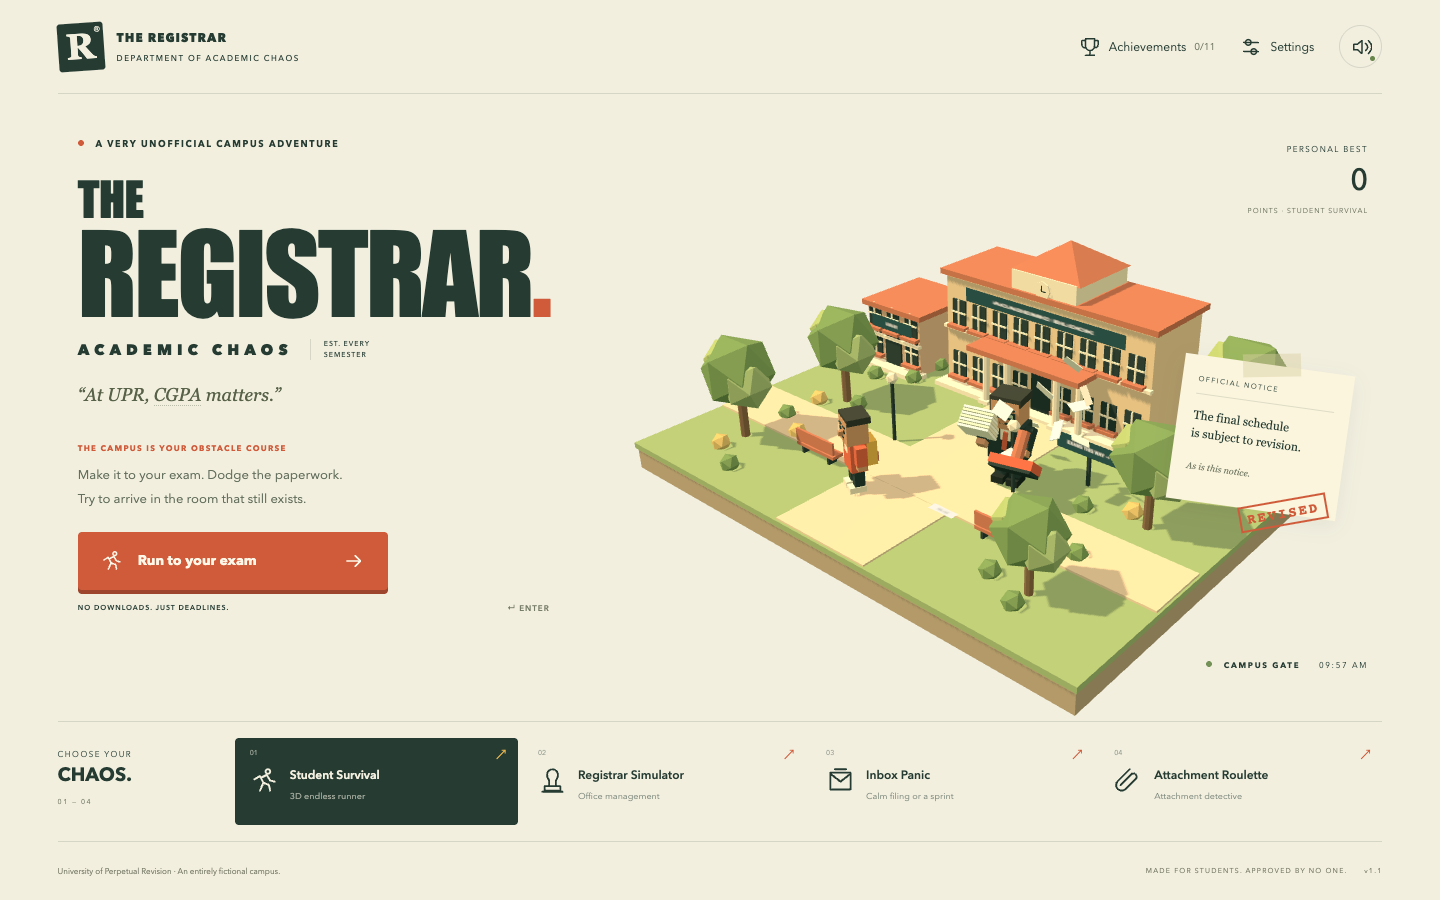
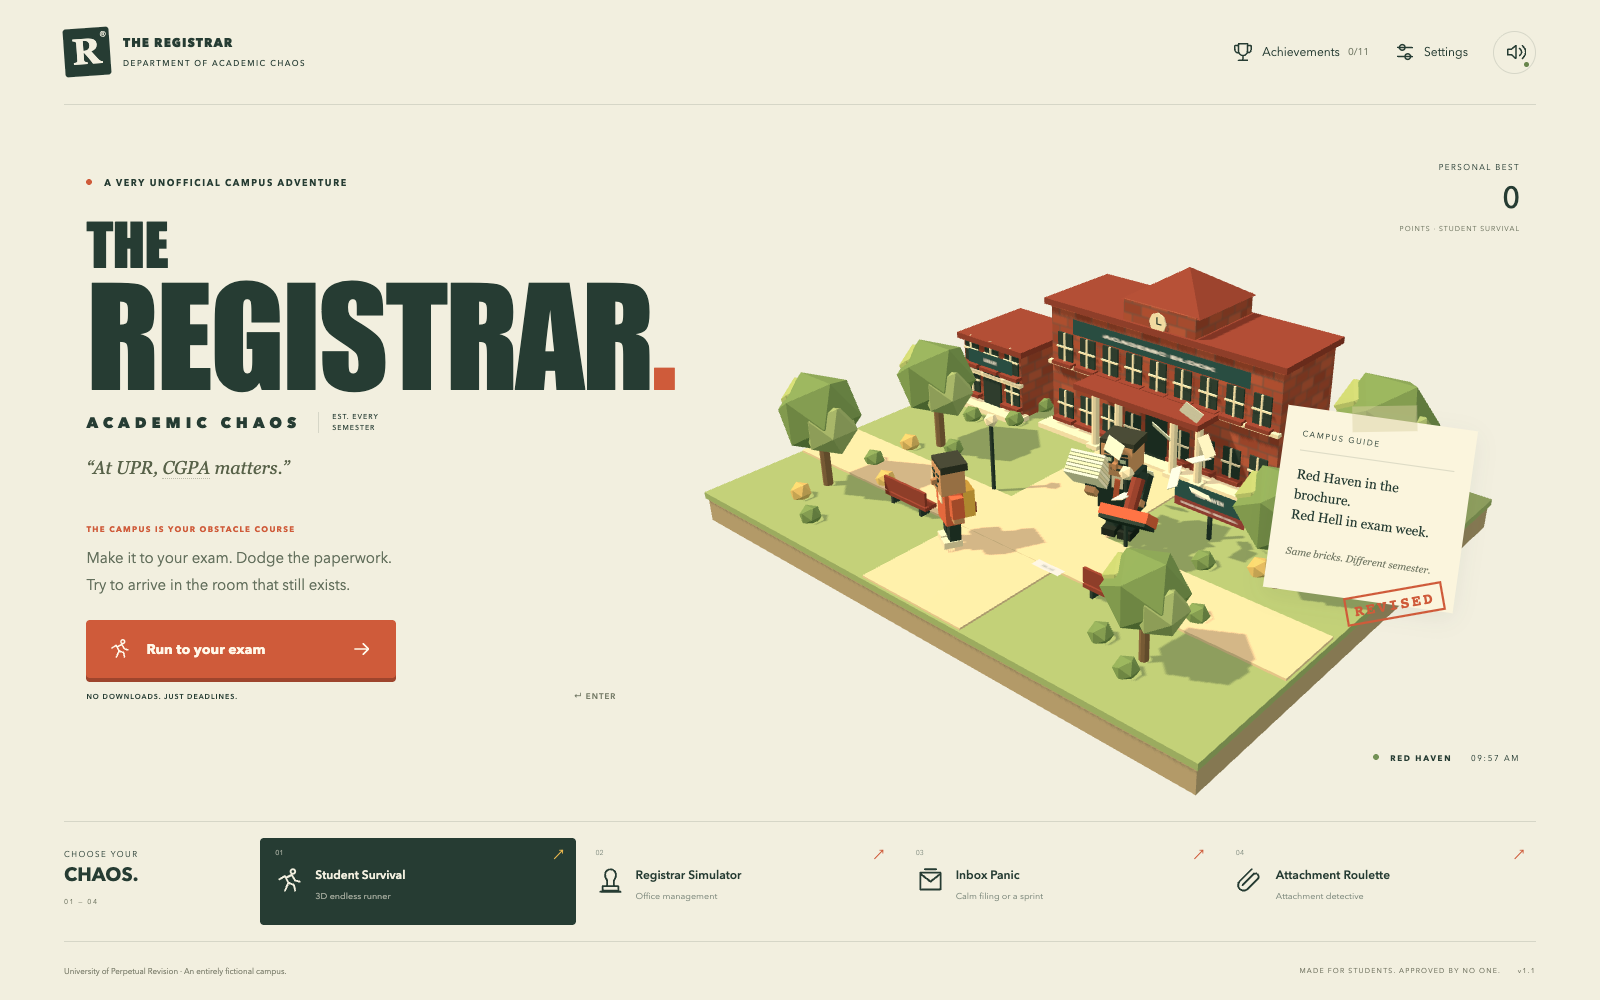
Add campus dollars and Red Haven red-brick setting

diff --git a/src/Game.ts b/src/Game.ts
@@ -207,7 +207,7 @@ export class Game {
     this.world.setMode("menu");
     this.world.resetItems();
     const mode = modes[this.selected];
-    this.root.innerHTML = `${this.header()}<main class="menu-content"><div class="hero-copy"><p class="eyebrow"><span class="live-dot"></span> A VERY UNOFFICIAL CAMPUS ADVENTURE</p><h1><span>THE</span>REGISTRAR<span class="title-period">.</span></h1><div class="subtitle">ACADEMIC CHAOS <span class="edition">EST. EVERY SEMESTER</span></div><p class="legend-quote">“At UPR, <button data-action="cgpa" aria-label="CGPA">CGPA</button> matters.”</p><div class="mode-description"><p class="eyebrow">${mode.kicker}</p><p>${mode.text.replace("\n", "<br>")}</p><button class="play-button" data-action="play">${icons[mode.icon]}<span>${this.selected === "simulator" && this.save.data.office.session ? "Continue your office day" : mode.button}</span>${icons.arrow}</button><div class="play-caption"><span>NO DOWNLOADS. JUST DEADLINES.</span><span class="key-hint">↵ ENTER</span></div></div></div><div class="scene-label"><span class="live-dot"></span> CAMPUS GATE <span>09:57 AM</span></div><div class="best-score"><span>PERSONAL BEST</span><strong>${format(this.save.data.highScore)}</strong><small>POINTS · STUDENT SURVIVAL</small></div><div class="paper-note"><span>OFFICIAL NOTICE</span><p>The final schedule<br>is subject to revision.</p><i>As is this notice.</i><b>REVISED</b></div></main><section class="mode-dock" aria-label="Choose game mode"><div class="dock-label">CHOOSE YOUR<br><strong>CHAOS.</strong><span>01 — 04</span></div>${(Object.keys(modes) as Mode[]).map((id, i) => `<button class="mode-tab ${this.selected === id ? "selected" : ""}" data-action="mode" data-mode="${id}" aria-pressed="${this.selected === id}"><span class="mode-number">0${i + 1}</span><span class="mode-icon">${icons[modes[id].icon]}</span><span class="mode-tab-copy"><strong>${modes[id].title}</strong><small>${modes[id].detail}</small></span><span class="mode-dot">↗</span></button>`).join("")}</section><footer class="menu-footer"><span>University of Perpetual Revision · An entirely fictional campus.</span><span>MADE FOR STUDENTS. APPROVED BY NO ONE. <b>v1.1</b></span></footer>`;
+    this.root.innerHTML = `${this.header()}<main class="menu-content"><div class="hero-copy"><p class="eyebrow"><span class="live-dot"></span> A VERY UNOFFICIAL CAMPUS ADVENTURE</p><h1><span>THE</span>REGISTRAR<span class="title-period">.</span></h1><div class="subtitle">ACADEMIC CHAOS <span class="edition">EST. EVERY SEMESTER</span></div><p class="legend-quote">“At UPR, <button data-action="cgpa" aria-label="CGPA">CGPA</button> matters.”</p><div class="mode-description"><p class="eyebrow">${mode.kicker}</p><p>${mode.text.replace("\n", "<br>")}</p><button class="play-button" data-action="play">${icons[mode.icon]}<span>${this.selected === "simulator" && this.save.data.office.session ? "Continue your office day" : mode.button}</span>${icons.arrow}</button><div class="play-caption"><span>NO DOWNLOADS. JUST DEADLINES.</span><span class="key-hint">↵ ENTER</span></div></div></div><div class="scene-label"><span class="live-dot"></span> RED HAVEN <span>09:57 AM</span></div><div class="best-score"><span>PERSONAL BEST</span><strong>${format(this.save.data.highScore)}</strong><small>POINTS · STUDENT SURVIVAL</small></div><div class="paper-note"><span>CAMPUS GUIDE</span><p>Red Haven in the brochure.<br>Red Hell in exam week.</p><i>Same bricks. Different semester.</i><b>REVISED</b></div></main><section class="mode-dock" aria-label="Choose game mode"><div class="dock-label">CHOOSE YOUR<br><strong>CHAOS.</strong><span>01 — 04</span></div>${(Object.keys(modes) as Mode[]).map((id, i) => `<button class="mode-tab ${this.selected === id ? "selected" : ""}" data-action="mode" data-mode="${id}" aria-pressed="${this.selected === id}"><span class="mode-number">0${i + 1}</span><span class="mode-icon">${icons[modes[id].icon]}</span><span class="mode-tab-copy"><strong>${modes[id].title}</strong><small>${modes[id].detail}</small></span><span class="mode-dot">↗</span></button>`).join("")}</section><footer class="menu-footer"><span>University of Perpetual Revision · An entirely fictional campus.</span><span>MADE FOR STUDENTS. APPROVED BY NO ONE. <b>v1.1</b></span></footer>`;
   }
   private click(event: MouseEvent) {
     const el = (event.target as HTMLElement).closest<HTMLElement>(
@@ -333,10 +333,10 @@ export class Game {
       this.world.resetItems();
       this.tutorialAt = 0;
       this.lastTokens = 0;
-      this.root.innerHTML = `${this.header(true)}<div class="runner-hud"><div class="exam-info"><span class="eyebrow">TODAY’S EXAM</span><strong>CSE 404 <span>10:00 AM</span></strong><div class="room-value">ROOM <b id="room">301</b><span id="version">FINAL v1</span></div></div><div class="run-score"><span class="eyebrow">DISTANCE <b id="distance">0 m</b></span><strong id="score">0</strong><div><button data-action="cgpa">CGPA <b id="tokens">0</b></button><span id="hearts" aria-label="3 admit cards">▰ ▰ ▰</span></div></div></div><div id="email" class="email-popup" role="status" aria-live="polite"></div><div id="boss-warning" class="boss-warning"></div><div class="runner-bottom"><span id="zone" class="zone-label">01 / CAMPUS GATE</span><div id="route" class="route-guide">FOLLOW THE PATH. THE PAPERWORK CAN WAIT.</div><button class="pause-fab" data-action="pause" aria-label="Pause game">Ⅱ</button></div><div class="touch-controls" aria-label="Movement controls"><button data-action="control" data-control="left" aria-label="Move left">←</button><button data-action="control" data-control="slide" aria-label="Slide">↓</button><button data-action="control" data-control="jump" aria-label="Jump">↑</button><button data-action="control" data-control="right" aria-label="Move right">→</button></div><span class="rotate-hint">A wider campus awaits in landscape ↻</span>`;
+      this.root.innerHTML = `${this.header(true)}<div class="runner-hud"><div class="exam-info"><span class="eyebrow">TODAY’S EXAM</span><strong>CSE 404 <span>10:00 AM</span></strong><div class="room-value">ROOM <b id="room">301</b><span id="version">FINAL v1</span></div></div><div class="run-score"><span class="eyebrow">DISTANCE <b id="distance">0 m</b></span><strong id="score">0</strong><div><span class="dollar-counter" title="Campus dollars · fictional game currency">$<b id="tokens">0</b> <small>CAMPUS CASH</small></span><span id="hearts" aria-label="3 admit cards">▰ ▰ ▰</span></div></div></div><div id="email" class="email-popup" role="status" aria-live="polite"></div><div id="boss-warning" class="boss-warning"></div><div class="runner-bottom"><span id="zone" class="zone-label">01 / CAMPUS GATE</span><div id="route" class="route-guide">FOLLOW THE PATH. THE PAPERWORK CAN WAIT.</div><button class="pause-fab" data-action="pause" aria-label="Pause game">Ⅱ</button></div><div class="touch-controls" aria-label="Movement controls"><button data-action="control" data-control="left" aria-label="Move left">←</button><button data-action="control" data-control="slide" aria-label="Slide">↓</button><button data-action="control" data-control="jump" aria-label="Jump">↑</button><button data-action="control" data-control="right" aria-label="Move right">→</button></div><span class="rotate-hint">A wider campus awaits in landscape ↻</span>`;
       if (!skipIntro)
         this.openDialog(
-          `<div class="dialog-icon">${icons.runner}</div><p class="eyebrow">BEFORE YOU RUN</p><h2>Your exam is this way.<br>For now.</h2><p>Collect gold CGPA tokens. Jump over low paperwork, slide under notice boards, and change lanes around cabinets.</p><div class="control-lesson"><span><kbd>←</kbd><kbd>→</kbd><b>Change lanes</b><small>A / D</small></span><span><kbd>↑</kbd><b>Jump</b><small>W</small></span><span><kbd>↓</kbd><b>Slide</b><small>S</small></span></div><p class="quiet">On a phone, swipe or use the arrow buttons.<br>Three admit cards. Clear room changes. Plenty of time.</p><button class="play-button" data-action="start-run">Let’s run ${icons.arrow}</button>`,
+          `<div class="dialog-icon">${icons.runner}</div><p class="eyebrow">BEFORE YOU RUN</p><h2>Your exam is this way.<br>For now.</h2><p>Collect $1 campus dollars (+25 points each). The tuition fund now has a cardio requirement. Jump over low paperwork, slide under notice boards, and change lanes around cabinets.</p><div class="control-lesson"><span><kbd>←</kbd><kbd>→</kbd><b>Change lanes</b><small>A / D</small></span><span><kbd>↑</kbd><b>Jump</b><small>W</small></span><span><kbd>↓</kbd><b>Slide</b><small>S</small></span></div><p class="quiet">On a phone, swipe or use the arrow buttons.<br>Three admit cards. Clear room changes. Plenty of time.</p><button class="play-button" data-action="start-run">Let’s run ${icons.arrow}</button>`,
           "tutorial",
         );
     } else if (mode === "simulator") {
@@ -593,7 +593,7 @@ export class Game {
             ? "← → CHANGE LANES     ↑ JUMP     ↓ SLIDE"
             : r.shield
               ? "◈ ADMIT CARD SHIELD ACTIVE"
-              : "COLLECT GOLD. KEEP YOUR ADMIT CARDS.",
+              : "COLLECT DOLLARS. OUTRUN THE FEES.",
       );
       document
         .getElementById("route")
@@ -645,6 +645,7 @@ export class Game {
       [
         ["Score", format(r.score)],
         ["Distance", `${format(r.distance)} m`],
+        ["Campus cash", `$${r.tokens}`],
         ["Revisions survived", String(r.survivedRevisions)],
       ],
       r.revisions > 0

diff --git a/src/world/World.ts b/src/world/World.ts
@@ -5,8 +5,8 @@ const C = {
   grass: 0x9bb377,
   grassDark: 0x78995b,
   cream: 0xf3e6c9,
-  wall: 0xe8cba1,
-  roof: 0xc57657,
+  wall: 0xa64c37,
+  roof: 0x8d3d30,
   green: 0x294d41,
   path: 0xe6cfaa,
   coral: 0xd86545,
@@ -45,6 +45,56 @@ function box(
   m.receiveShadow = true;
   parent.add(m);
   return m;
+}
+// One shared, procedural running-bond texture. UVs keep bricks the same size
+// on buildings of different dimensions, without adding individual brick meshes.
+let brickMaterial: THREE.MeshStandardMaterial | undefined;
+function brickBox(
+  parent: THREE.Object3D,
+  x: number,
+  y: number,
+  z: number,
+  w: number,
+  h: number,
+  d: number,
+) {
+  if (!brickMaterial) {
+    const canvas = document.createElement("canvas");
+    canvas.width = canvas.height = 256;
+    const ctx = canvas.getContext("2d")!;
+    ctx.fillStyle = "#795348";
+    ctx.fillRect(0, 0, 256, 256);
+    const shades = ["#a54c38", "#b45740", "#994431", "#ad5039", "#a14a36"];
+    for (let row = 0; row < 8; row++) {
+      for (let col = -1; col < 5; col++) {
+        ctx.fillStyle = shades[(row * 7 + col + 10) % shades.length];
+        ctx.fillRect(col * 64 + (row % 2) * 32 + 2, row * 32 + 2, 60, 28);
+      }
+    }
+    const map = new THREE.CanvasTexture(canvas);
+    map.colorSpace = THREE.SRGBColorSpace;
+    map.wrapS = map.wrapT = THREE.RepeatWrapping;
+    brickMaterial = new THREE.MeshStandardMaterial({ map, roughness: 1 });
+  }
+  const geometry = new THREE.BoxGeometry(w, h, d);
+  const uv = geometry.attributes.uv;
+  const faces = [
+    [d, h],
+    [d, h],
+    [w, d],
+    [w, d],
+    [w, h],
+    [w, h],
+  ];
+  faces.forEach(([width, height], face) => {
+    for (let i = face * 4; i < face * 4 + 4; i++)
+      uv.setXY(i, (uv.getX(i) * width) / 4, (uv.getY(i) * height) / 4);
+  });
+  const mesh = new THREE.Mesh(geometry, brickMaterial);
+  mesh.position.set(x, y, z);
+  mesh.castShadow = mesh.receiveShadow = true;
+  parent.add(mesh);
+  return mesh;
 }
 const cylGeo = new THREE.CylinderGeometry(1, 1, 1, 8);
 function cylinder(
@@ -103,7 +153,7 @@ function label(
     ctx.fillStyle = fg;
     ctx.textAlign = "center";
     ctx.textBaseline = "middle";
-    ctx.font = `bold ${text.length > 21 ? 24 : 35}px sans-serif`;
+    ctx.font = `bold ${text === "$1" ? 110 : text.length > 21 ? 24 : 35}px sans-serif`;
     ctx.fillText(text, 256, 67, 486);
     const texture = new THREE.CanvasTexture(canvas);
     texture.colorSpace = THREE.SRGBColorSpace;
@@ -132,12 +182,11 @@ function building(
   width: number,
   height: number,
   name: string,
-  color = C.wall,
 ) {
   const g = new THREE.Group();
   g.position.set(x, 0, z);
   parent.add(g);
-  box(g, 0, height / 2, 0, width, height, 4.2, color);
+  brickBox(g, 0, height / 2, 0, width, height, 4.2);
   box(g, 0, height + 0.12, 0, width + 0.5, 0.3, 4.7, C.roof);
   box(g, 0, 0.2, 2.45, width + 0.6, 0.4, 1, C.cream);
   box(g, 0, height * 0.55, 2.2, width + 0.15, 0.17, 0.3, C.cream);
@@ -358,7 +407,7 @@ export class World {
         0.13,
         0.035,
         0.22,
-        i % 3 ? C.cream : C.gold,
+        i % 3 ? C.cream : 0x67b77b,
       );
       mesh.castShadow = false;
       mesh.visible = false;
@@ -393,7 +442,7 @@ export class World {
     box(g, 0, 0.18, 1, 5.5, 0.12, 20, C.path);
     box(g, 0, 0.2, 4.2, 27, 0.12, 3.2, C.path);
     building(g, 0, -6.5, 13, 6.5, "ACADEMIC BLOCK");
-    box(g, 0, 7.2, -6.5, 4, 1.1, 4.4, C.cream);
+    brickBox(g, 0, 7.2, -6.5, 4, 1.1, 4.4);
     const ped = new THREE.Mesh(
       new THREE.ConeGeometry(3.1, 1.4, 4),
       material(C.roof),
@@ -410,7 +459,7 @@ export class World {
       box(g, x, 0.38, -3.5, 0.65, 0.2, 0.65, C.cream);
     }
     box(g, 0, 3.6, -3.55, 7.1, 0.28, 2, C.roof);
-    building(g, -10, -5.8, 4, 3.6, "LIBRARY", 0xdcb694);
+    building(g, -10, -5.8, 4, 3.6, "LIBRARY");
     for (const [x, z, s] of [
       [-9, 1, 1.2],
       [-10, 7, 1.2],
@@ -432,7 +481,8 @@ export class World {
       blob(g, x, 3.65, 2.6, 0.32, C.cream);
     }
     box(g, 6, 1, -0.2, 0.15, 2, 0.15, C.ink);
-    label(g, "EXAMS THIS WAY →", 6, 2.1, -0.08, 3.5, 0.8);
+    label(g, "RED HAVEN", 6, 2.1, -0.08, 3.5, 0.8);
+    label(g, "EXAM WEEK: RED HELL", 6, 1.5, -0.08, 3.5, 0.4, "#8d3d30");
     this.menuStudent.group.position.set(-1.8, 0.3, 7);
     this.menuStudent.group.rotation.y = -0.45;
     this.menuStudent.group.scale.setScalar(1.4);
@@ -499,7 +549,7 @@ export class World {
           5 + (i % 3),
           ["LIBRARY", "ACADEMIC BLOCK", "EXAM HALL", "REGISTRAR"][i % 4],
         );
-        building(row, 15, -7, 9, 5, "CAMPUS", i % 2 ? C.cream : C.wall);
+        building(row, 15, -7, 9, 5, "RED HAVEN");
       }
       if (i % 2 === 0) {
         cylinder(row, 5.9, 1.7, 2, 0.07, 3.4, C.ink);
@@ -511,7 +561,7 @@ export class World {
       this.runner.add(arch);
       this.arches.push(arch);
       for (const x of [-5.8, 5.8]) {
-        box(arch, x, 2.7, 0, 0.65, 5.4, 0.7, C.cream);
+        brickBox(arch, x, 2.7, 0, 0.65, 5.4, 0.7);
         box(arch, x, 0.25, 0, 1.1, 0.5, 1.1, C.wall);
       }
       box(arch, 0, 5.5, 0, 12.6, 0.65, 1.25, C.roof);
@@ -542,8 +592,8 @@ export class World {
     box(g, 0, -0.4, 0, 19, 0.8, 15, C.path);
     for (let i = -8; i < 9; i += 2)
       box(g, i, 0.012, 0, 0.018, 0.02, 15, 0xc4b594);
-    box(g, 0, 3.1, -7, 19, 6.2, 0.3, C.wall);
-    box(g, -9.3, 3.1, 0, 0.3, 6.2, 14, C.cream);
+    brickBox(g, 0, 3.1, -7, 19, 6.2, 0.3);
+    brickBox(g, -9.3, 3.1, 0, 0.3, 6.2, 14);
     box(g, -5.8, 3.6, -6.8, 4.5, 3.1, 0.15, C.teal);
     for (const x of [-7.3, -5.8, -4.3])
       box(g, x, 3.6, -6.65, 0.14, 3.1, 0.2, C.cream);
@@ -698,38 +748,50 @@ export class World {
         box(g, 0, 0.5, 0, 2.4, 1, 1.6, C.coral);
         cylinder(g, 0, 1.6, 0, 0.3, 1.4, C.roof);
         break;
+      case "token": {
+        const bill = new THREE.Group();
+        g.add(bill);
+        box(bill, 0, 0, 0, 1.3, 0.65, 0.06, 0x286947);
+        box(bill, 0, 0, 0, 1.16, 0.51, 0.075, 0xb9dab0);
+        label(bill, "$1", 0, 0, 0.045, 0.95, 0.43, "#b9dab0", "#245d3e");
+        label(
+          bill,
+          "$1",
+          0,
+          0,
+          -0.045,
+          0.95,
+          0.43,
+          "#b9dab0",
+          "#245d3e",
+        ).rotation.y = Math.PI;
+        break;
+      }
       default: {
         const color =
-          kind === "token"
-            ? C.gold
-            : kind === "shield"
-              ? C.teal
-              : kind === "coffee"
-                ? C.coral
-                : 0x9fa2c7;
+          kind === "shield" ? C.teal : kind === "coffee" ? C.coral : 0x9fa2c7;
         const orb = new THREE.Mesh(
-          new THREE.OctahedronGeometry(kind === "token" ? 0.4 : 0.62),
+          new THREE.OctahedronGeometry(0.62),
           material(color),
         );
         orb.position.y = 1.2;
         g.add(orb);
-        if (kind !== "token")
-          label(
-            g,
-            {
-              shield: "ADMIT",
-              coffee: "COFFEE",
-              screenshot: "LOCK",
-              groupchat: "CHAT",
-              compare: "COMPARE",
-              read: "FOCUS",
-            }[kind],
-            0,
-            2.05,
-            0.1,
-            1.8,
-            0.44,
-          );
+        label(
+          g,
+          {
+            shield: "ADMIT",
+            coffee: "COFFEE",
+            screenshot: "LOCK",
+            groupchat: "CHAT",
+            compare: "COMPARE",
+            read: "FOCUS",
+          }[kind],
+          0,
+          2.05,
+          0.1,
+          1.8,
+          0.44,
+        );
       }
     }
     this.itemMeshes.push(g);

diff --git a/src/style.css b/src/style.css
@@ -2447,3 +2447,16 @@ dialog .play-button {
     display: none;
   }
 }
+
+.dollar-counter {
+  color: #285c3e;
+  display: inline-flex;
+  align-items: baseline;
+  gap: 3px;
+  font-weight: 800;
+}
+.dollar-counter small {
+  font-size: 9px;
+  letter-spacing: 0.06em;
+  margin-left: 5px;
+}

diff --git a/README.md b/README.md
@@ -2,7 +2,9 @@
 
 A playable, static 3D campus parody set at the entirely fictional **University of Perpetual Revision (UPR)**.
 
-> “At UPR, CGPA matters.”
+> Red Haven in the brochure. Red Hell in exam week.
+
+A red-brick campus, green campus cash, and an education in paperwork. The dollars are fictional game currency; CGPA remains a separate hidden joke.
 
 [Play in your browser](https://abid-5as.github.io/the-registrar/) · [Build status](https://github.com/Abid-5AS/the-registrar/actions)
 
@@ -30,7 +32,7 @@ npm run preview
 
 ## Four complete modes
 
-**Student Survival** — a three-lane campus runner with smooth movement, jumping, sliding, short obstacles, tall cabinets, gold CGPA tokens, six power-ups, three admit-card hearts, collision grace, and escalating schedule changes. Revisions clear hazards, slow time to 72%, highlight the new destination, and allow at least 6.5–9 seconds at the configured speed cap. A correct gate awards 250 points; a wrong gate uses one card. There is no single-hit death.
+**Student Survival** — a three-lane campus runner with smooth movement, jumping, sliding, short obstacles, tall cabinets, floating $1 campus dollars (+25 points each), six power-ups, three admit-card hearts, collision grace, and escalating schedule changes. Revisions clear hazards, slow time to 72%, highlight the new destination, and allow at least 6.5–9 seconds at the configured speed cap. A correct gate awards 250 points; a wrong gate uses one card. There is no single-hit death.
 
 The first revision arrives around 30 seconds. The Registrar makes a cameo after 2½ minutes, with a 30-second inspection after roughly five minutes. Stamps have 3½-second warnings. Campus zones change ground palette, buildings, and colonnades as distance grows. Geometry and materials are shared, architecture is instanced, obstacles are pooled, and paper particles are bounded.
 

diff --git a/CHANGELOG.md b/CHANGELOG.md
@@ -1,5 +1,12 @@
 # 1.1.0 — Release candidate · 9 September 2026
 
+## Red-brick campus update
+
+- Replaced gold pickups with animated green dollar bills and a campus-cash counter.
+- Added consistent procedural red-brick masonry to campus buildings and office walls.
+- Added Red Haven / Red Hell campus signage and brochure parody.
+- Made jump/slide browser checks wait for landing on slower CI machines.
+
 - Four playable modes in a procedural 3D campus and office/common room.
 - Entirely fictional University of Perpetual Revision branding and characters.
 - Calm, clue-based mini-games: untimed inbox filing by default, optional timed sprint, helpful attachment previews, free hints, and forgiving retries.
